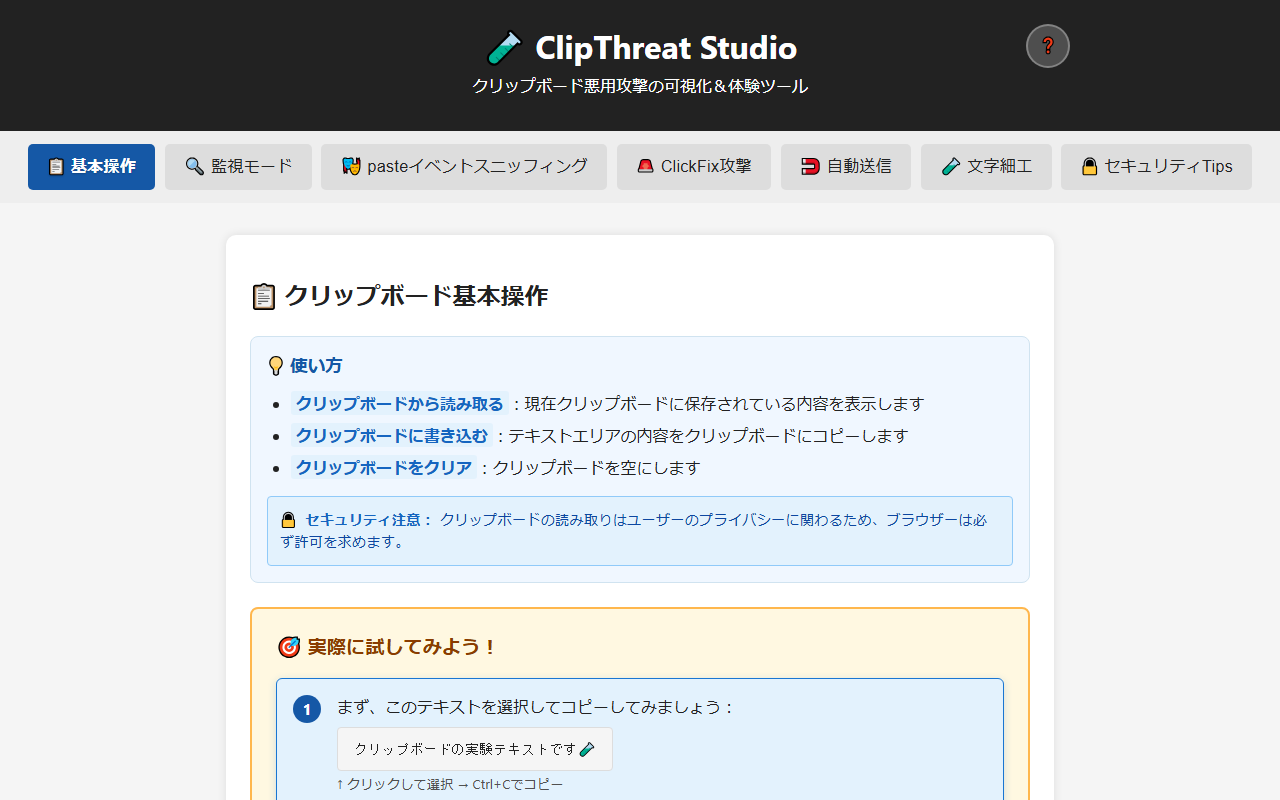
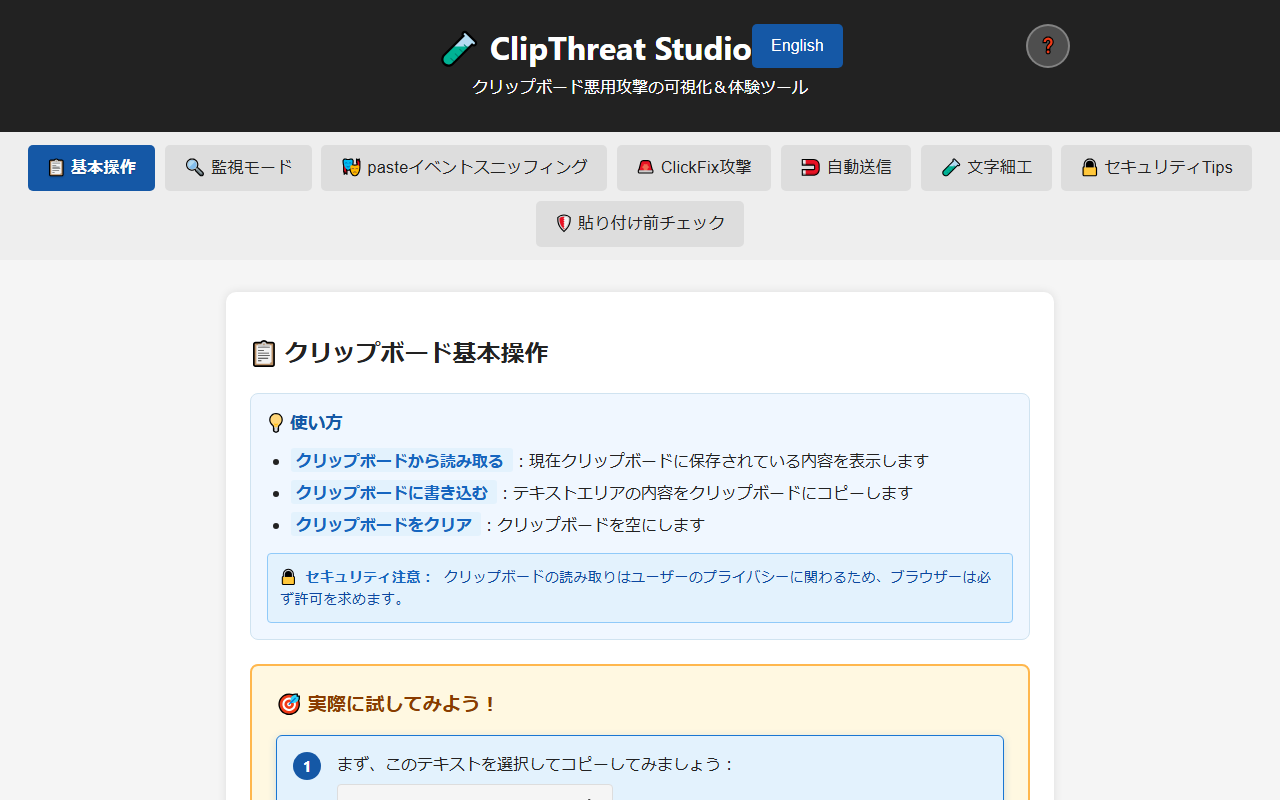
READMEの1枚目を今の画面に撮り直す
基本操作の初期画面が古い画面のままで、English ボタンと「貼り付け前チェック」タブが写っていなかった。2・3枚目はログの時刻しか違わないので撮り直していない。

diff --git a/README.md b/README.md
@@ -64,7 +64,7 @@ hub: true
 
 > ![基本操作の初期画面](assets/screenshot.png)
 >
-> *基本操作タブの初期表示（1280×800、70,438バイト）*
+> *基本操作タブの初期表示（1280×800、70,360バイト）*
 
 > ![安全化したClickFixデモ](assets/screenshot2.png)
 >
